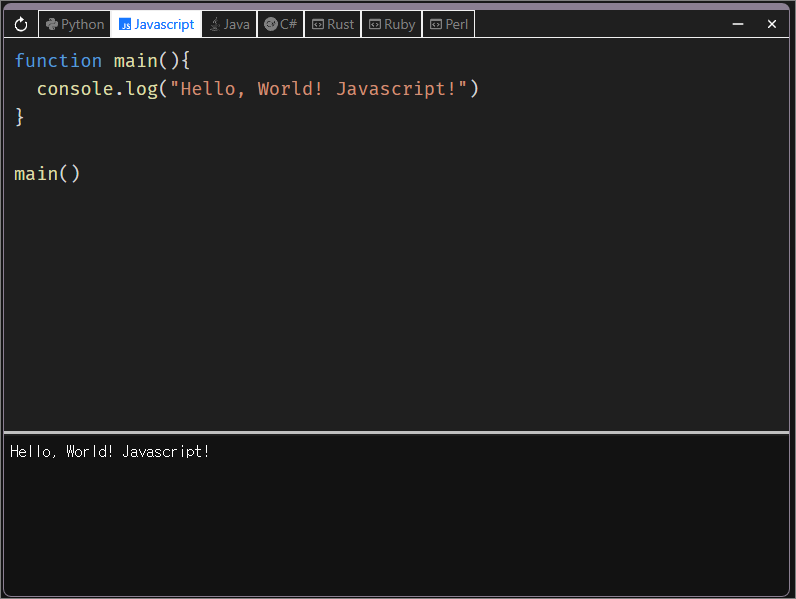
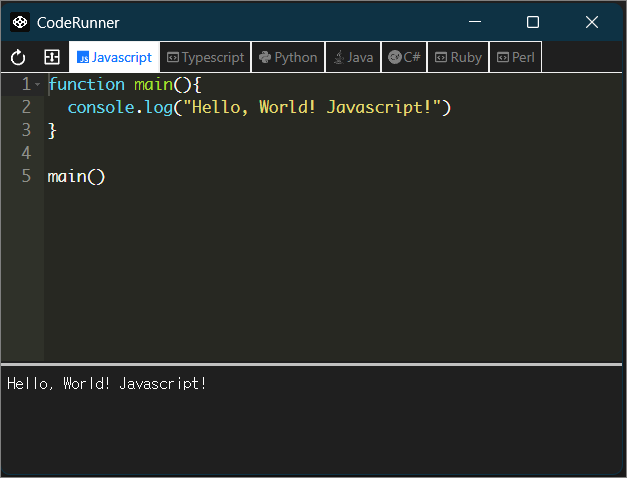
refactor: streamline configuration and improve UI responsiveness

Changed region(s): [[0.0, 0.0, 1.0, 1.0]]

diff --git a/react-src/src/App.tsx b/react-src/src/App.tsx
@@ -2,12 +2,7 @@ import * as S from '@src/styled';
 import { Spin, Tabs, TabsProps } from 'antd';
 import { CodeWithResult } from '@src/components/code-with-result';
 import { useEffect, useState } from 'react';
-import { setDraggableRegion } from '@src/lib/setDraggableRegion';
 import { LangIcon } from '@src/components/language-icon';
-import IconClose from '@src/icons/close';
-import IconMinus from '@src/icons/minus';
-import { onWindowClose as onClose, onWindowMinimize as onMinimize } from '@src/main';
-import { titlebarIconProps } from '@src/common/props';
 import '@styles/index.css';
 import '@styles/code.css';
 import { TabActiveContext } from './common/contexts';
@@ -17,14 +12,15 @@ import { loadLanguageJson } from './backend/runner';
 export function App() {
   const [activeTab, setActiveTab] = useState<string>('');
   const [languageJson, setLanguageJson] = useState<languageType[]>([]);
+  const [isTabVisible, setIsTabVisible] = useState<boolean>(true);
   const items: TabsProps['items'] = languageJson.map((langObj) => ({
     key: langObj.language,
     label: langObj.title,
     icon: <LangIcon lang={langObj.language} />,
     children: (
-      <S.ContentWrapper>
+      <div style={{ height: isTabVisible ? 'calc(100vh - 32px)' : '100vh' }}>
         <CodeWithResult {...langObj} />
-      </S.ContentWrapper>
+      </div>
     ),
   }));
 
@@ -32,10 +28,10 @@ export function App() {
     left: <S.FlexWrapper id='tabBarLeftArea'></S.FlexWrapper>,
     right: (
       <S.FlexWrapper id='tabBarRightArea'>
-        {/* <IconDown {...titlebarIconProps} style={{ paddingTop: '2px' }} />
-        <IconConfig {...titlebarIconProps} /> */}
-        <IconMinus onClick={onMinimize} {...titlebarIconProps} />
-        <IconClose onClick={onClose} {...{ ...titlebarIconProps, className: 'titlebar-icon hover-red' }} />
+        {/* <IconDown {...titlebarIconProps} style={{ paddingTop: '2px' }} /> */}
+        {/* <IconConfig {...titlebarIconProps} /> */}
+        {/* <IconMinus onClick={onMinimize} {...titlebarIconProps} /> */}
+        {/* <IconClose onClick={onClose} {...{ ...titlebarIconProps, className: 'titlebar-icon hover-red' }} /> */}
       </S.FlexWrapper>
     ),
   };
@@ -43,13 +39,18 @@ export function App() {
     loadLanguageJson().then((json: languageType[]) => {
       setActiveTab(json[0].language);
       setLanguageJson(json);
-      const intervalId = setInterval(() => {
-        if (document.getElementsByClassName('ant-tabs-nav-wrap').length > 0) {
-          setDraggableRegion(document.getElementsByClassName('ant-tabs-nav-wrap').item(0) as HTMLElement);
-          clearInterval(intervalId);
-        }
-      }, 50);
     });
+    const handleKeyDown = (e: KeyboardEvent) => {
+      if (e.key.toLocaleLowerCase() === 'alt') {
+        setIsTabVisible((prev) => !prev);
+        e.preventDefault();
+        e.stopPropagation();
+      }
+    };
+    addEventListener('keydown', handleKeyDown);
+    return () => {
+      removeEventListener('keydown', handleKeyDown);
+    };
   }, []);
   if (languageJson.length === 0)
     return (
@@ -68,7 +69,7 @@ export function App() {
           size='small'
           animated={true}
           tabBarGutter={0}
-          tabBarStyle={{ height: '28px', margin: '0' }}
+          tabBarStyle={{ height: '32px', margin: '0', display: isTabVisible ? 'flex' : 'none' }}
           items={items}
         />
       </TabActiveContext.Provider>

diff --git a/react-src/src/components/code-with-result.tsx b/react-src/src/components/code-with-result.tsx
@@ -43,17 +43,25 @@ export const CodeWithResult = ({ language, extension, sample, runner }: language
   const IconSplit = isHorizontal ? IconSplitCellsVertical : IconSplitCellsHorizontal;
   return (
     <>
-      <Split horizontal={isHorizontal} initialPrimarySize={'65%'} minPrimarySize='15%' minSecondarySize='15%'>
-        <div className='editor' style={{ height: '100%', overflow: 'auto' }}>
+      <Split
+        horizontal={isHorizontal}
+        initialPrimarySize={settings.splitPercent ?? '65%'}
+        onSplitChanged={(primarySize: string) => {
+          setSettings((prev) => ({
+            ...prev,
+            splitPercent: primarySize,
+          }));
+        }}
+        minPrimarySize='15%'
+        minSecondarySize='15%'>
+        <S.EditorWrapper>
           <AceEditor
             width='100%'
             height='100%'
             placeholder=''
             mode={language}
             theme='monokai'
-            onChange={(code) => {
-              setCode(code);
-            }}
+            onChange={setCode}
             fontSize={16}
             lineHeight={23}
             showPrintMargin={false}
@@ -69,15 +77,9 @@ export const CodeWithResult = ({ language, extension, sample, runner }: language
               tabSize: 2,
             }}
           />
-        </div>
-        <S.TextareaWrapper className='code-output'>
-          <S.TextArea
-            style={{
-              backgroundColor: '#1f1f1f',
-              color: loading ? 'gray' : 'white',
-            }}
-            value={output}
-            readOnly={true}></S.TextArea>
+        </S.EditorWrapper>
+        <S.TextareaWrapper>
+          <S.TextArea style={{ color: loading ? 'gray' : 'white' }} value={output} readOnly={true}></S.TextArea>
         </S.TextareaWrapper>
       </Split>
       <>

diff --git a/react-src/src/styled.ts b/react-src/src/styled.ts
@@ -8,14 +8,16 @@ export const Wrapper = styled.div`
   width: 100vw;
   height: 100vh;
 `;
-export const ContentWrapper = styled.div`
-  height: calc(100vh - 28px);
-`;
 export const PageWrapper = styled.div`
   display: flex;
   flex-direction: column;
   width: 100vw;
   height: 100vh;
+`;
+export const EditorWrapper = styled.div`
+  height: 100%;
+  width: 100%;
+  overflow: auto;
 `;
 export const TextareaWrapper = styled.div`
   display: flex;
@@ -34,6 +36,7 @@ export const FixedFlexWrapper = styled.div`
 `;
 export const TextArea = styled.textarea`
   flex: 1;
+  background-color: #1f1f1f;
   resize: none;
   padding: 6px;
   font-size: 16px;

diff --git a/react-src/src/common/props.tsx b/react-src/src/common/props.tsx
@@ -1,1 +1,1 @@
-export const titlebarIconProps = { className: 'titlebar-icon', height: '28px', width: '34px', color: 'white' };
+export const titlebarIconProps = { className: 'titlebar-icon', height: '30px', width: '34px', color: 'white' };

diff --git a/react-src/src/lib/recoil-atom.ts b/react-src/src/lib/recoil-atom.ts
@@ -3,6 +3,7 @@ import { atom, AtomEffect } from 'recoil';
 
 type SettingsState = {
   splitType: 'horizontal' | 'vertical';
+  splitPercent: string | undefined;
 };
 
 const defaultSplitState = { splitType: 'horizontal' };
